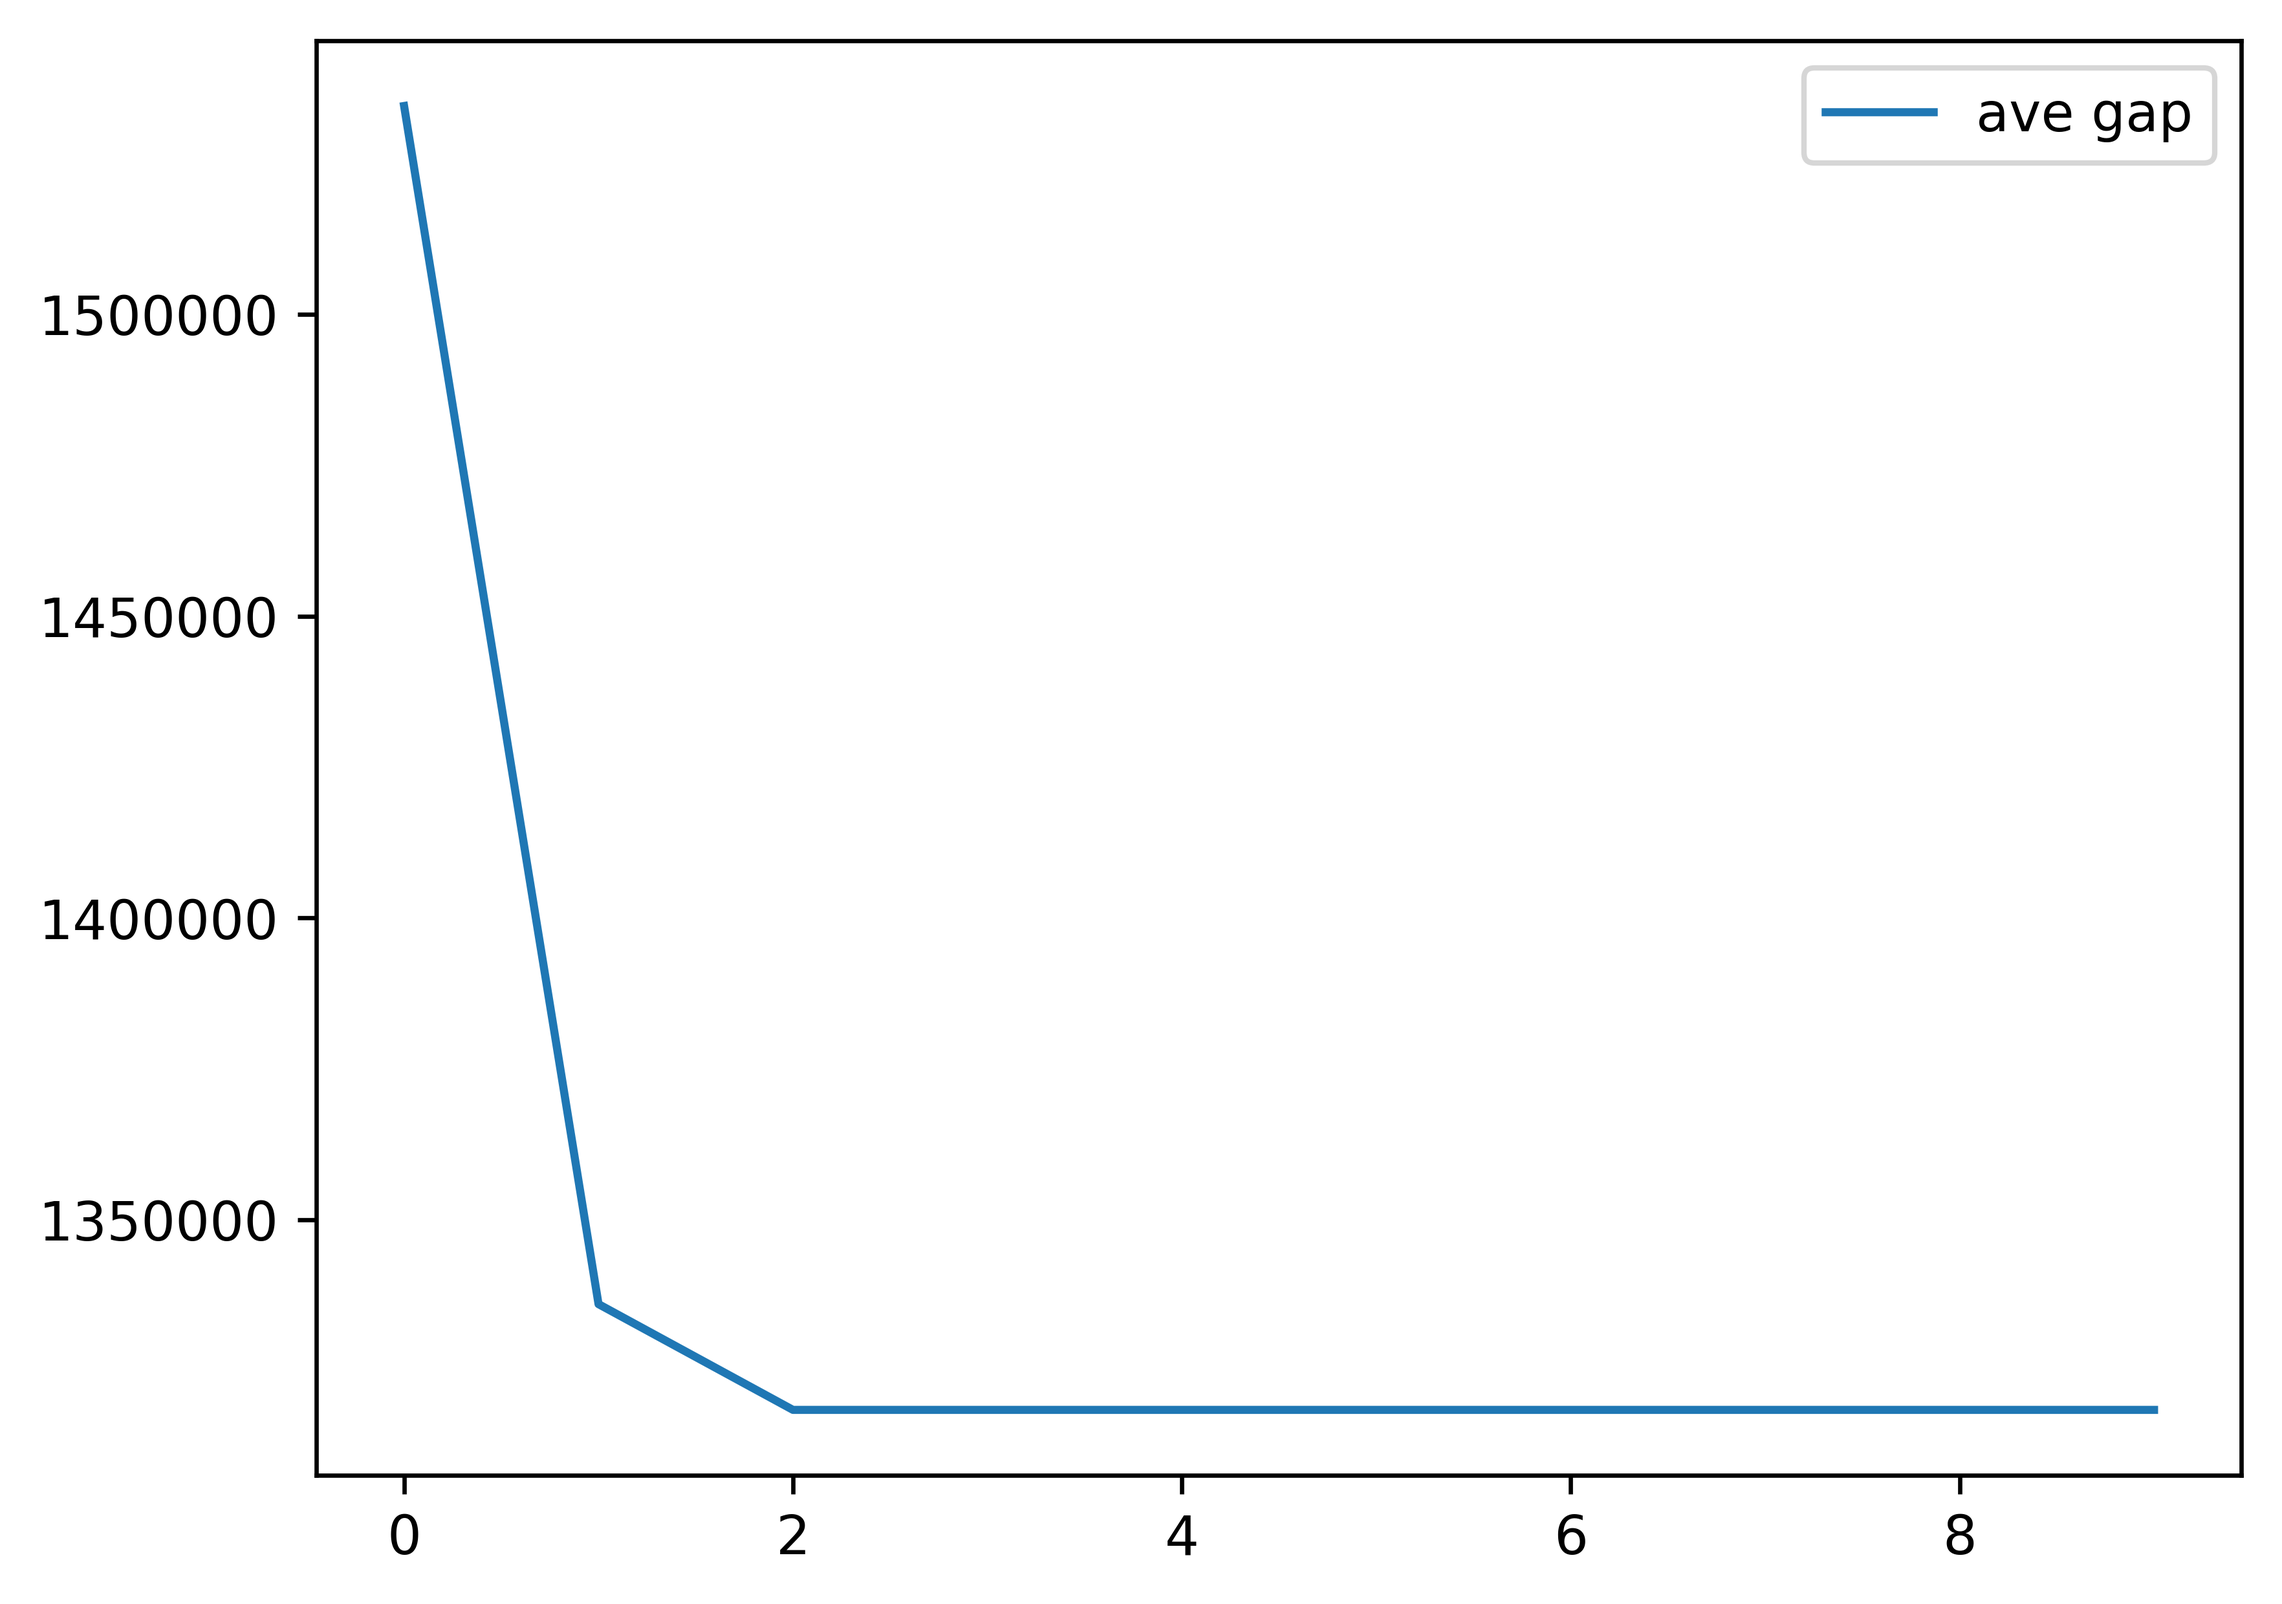
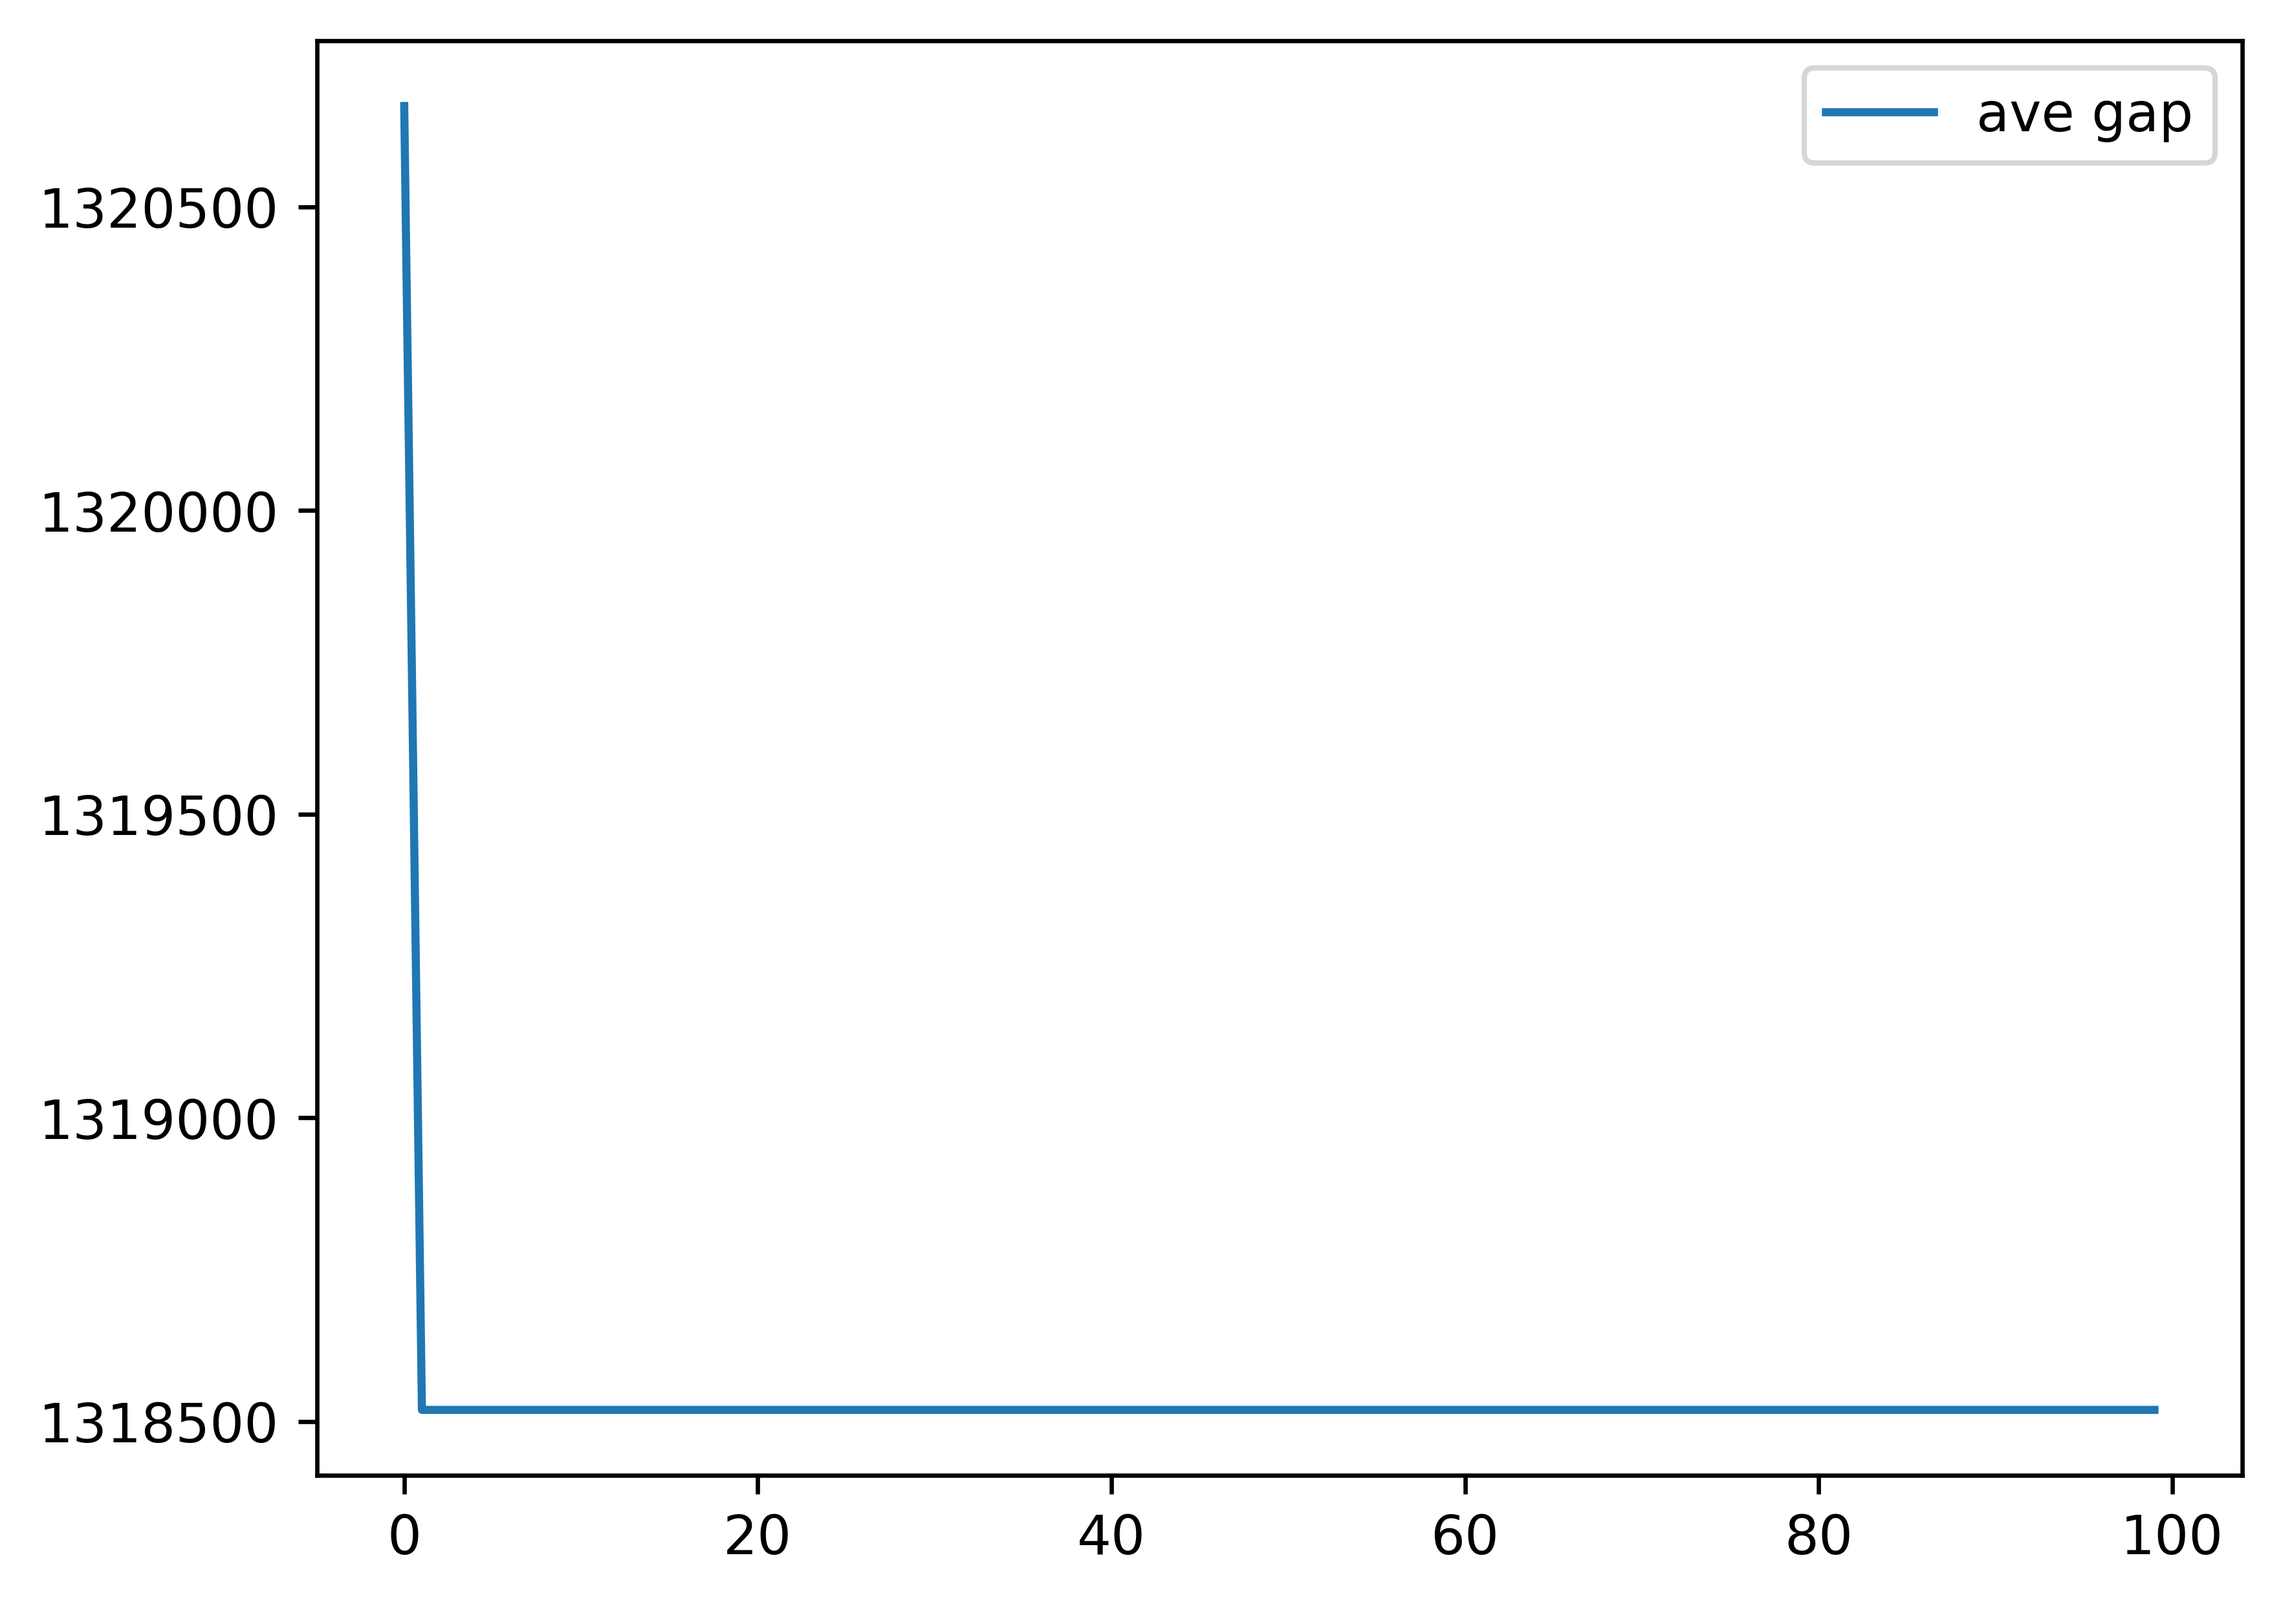
fixbug

diff --git a/Script/para.py b/Script/para.py
@@ -3,9 +3,10 @@ import shutil
 import myclass as mc
 from shutil import copyfile
 import shutil
+import logging
 
-# isRunTest = True
-isRunTest = False
+isRunTest = True
+# isRunTest = False
 isDebug = True
 # isDebug = False
 
@@ -13,13 +14,21 @@ class ParaClass(object):
     """parameter class
     """
     def __init__(self):
-        self.para ={ "NumEmployBee":4, 
-                    "NumOnlookerBee":4, 
-                    "MaxScountCount":4, 
-                    "MaxABCIter":10
+        self.para ={ "NumEmployBee":5, 
+                    "NumOnlookerBee":5, 
+                    "MaxScountCount":5, 
+                    "MaxABCIter":50
                     }
-    
-
+    def print_abc_para(self,net=""):
+        """
+        """
+        if net is "Wang":
+            with open("..//InPut//WangNetwork//ABCPara.txt","w+") as f:
+                for key,value in self.para.items():
+                    print("{0},{1}".format(key,value),file=f) 
+        else:
+            logging.debug("Input network is not specified for print ABC para")
+            
 def SFileToDFile(sourcefile,fileclass,destinationfile):
     if os.path.exists(destinationfile):
         pass

diff --git a/NetworkResilience/Classes.h b/NetworkResilience/Classes.h
@@ -32,6 +32,17 @@ public:
 	LINK();
 	LINK(const LINK& OtherLink);
 	~LINK();
+	LINK& operator=(const LINK& rhs) {
+		ID = rhs.ID; Tail = rhs.Tail; Head = rhs.Head;
+		T0 = rhs.T0; CaInput = rhs.CaInput;
+		CaRevise = rhs.CaRevise;
+		Cost = rhs.Cost; Flow = rhs.Flow;
+		AlphaBpr = rhs.AlphaBpr;
+		BetaBBpr = rhs.BetaBBpr;
+		RecoverTime = rhs.RecoverTime;  // recover time
+		RequiredRes=rhs.RequiredRes; // required resources
+		return*this;
+	}
 
 };
 

diff --git a/NetworkResilience/RestoreSch.cpp b/NetworkResilience/RestoreSch.cpp
@@ -248,7 +248,8 @@ void SCHCLASS::Evaluate(GRAPH& g)
 		}
 		else
 		{
-			for (auto l : NewReady) Links.at(l)->IniCap();
+			for (auto l : NewReady) 
+				Links.at(l)->IniCap();
 			cout << "---Period = " << t << "," << NewReady.size() << " link is added" << endl;
 			g.EvaluteGraph();
 			CumulativeReadyLinks.insert(CumulativeReadyLinks.end(), NewReady.begin(), NewReady.end());

diff --git a/NetworkResilience/Parameters.h b/NetworkResilience/Parameters.h
@@ -7,7 +7,7 @@ const double Zero = 1.0e-12f;
 const double LargeNum = 1.0e+20f;
 const double RemoveLinkCost = 99999.0f;
 const double InvalidMinCost = 99999.0f;
-const int MaxNumOfSchPeriod = 10;
+const int MaxNumOfSchPeriod = 20;
 //const int NumOfDisruptLinks = 3;
 enum AlgorithmType
 {

diff --git a/NetworkResilience/ABC.cpp b/NetworkResilience/ABC.cpp
@@ -102,6 +102,8 @@ void ABCAlgorithms::EmployBeePhase()
 	{
 		SCHCLASS Nei(this->Sols.at(i));
 		cout << "Eb = " << i << endl;
+		if (i == 2)
+			cout << "wtf" << endl;
 		this->Sols.at(i).GenNei(Nei, *Graph, FailureLinks, ResourceCap);
 		if (Nei.Fitness < this->Sols.at(i).Fitness)
 		{

diff --git a/Script/main.py b/Script/main.py
@@ -16,6 +16,7 @@ if __name__ == "__main__":
     para.Copy_input_and_test_files(mf)
     run.run_test(mf)
     ps = para.ParaClass()
+    ps.print_abc_para(net="Wang")
     myplot.plot_converge(ps,mf.root_folder+"LinJuanJuan\\Output\\ABCConverge.txt")
     
     

diff --git a/NetworkResilience/FW_UE.cpp b/NetworkResilience/FW_UE.cpp
@@ -218,7 +218,7 @@ int GRAPH::FW_UE() {
 
 		if (Err > UEeps && NumIter < UEmaxIter)
 		{
-			cout << NumIter<<"\t"<<Err << endl;
+			//cout << NumIter<<"\t"<<Err << endl;
 			//assert(PrintConverge(NumIter, Err, AssertLog));
 			goto UeLop;
 		}

diff --git a/NetworkResilience/RestoreSchClass.h b/NetworkResilience/RestoreSchClass.h
@@ -62,7 +62,7 @@ public:
 	void Evaluate(GRAPH& g);
 	int GetLastPeriod()
 	{
-		return EndTime.back();
+		return *max_element(EndTime.begin(), EndTime.end()); ;
 	}
 	vector<size_t> getNewReadyLinks(int tau);
 	// write a few neighbor operators
